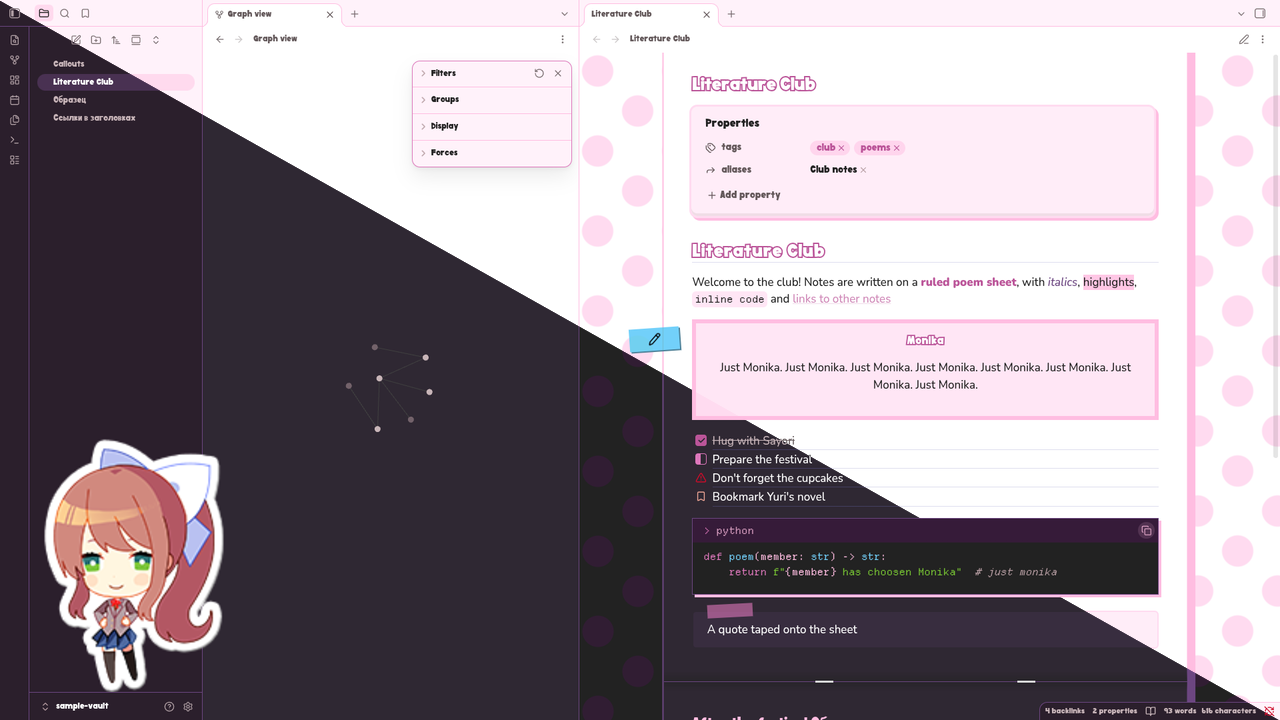
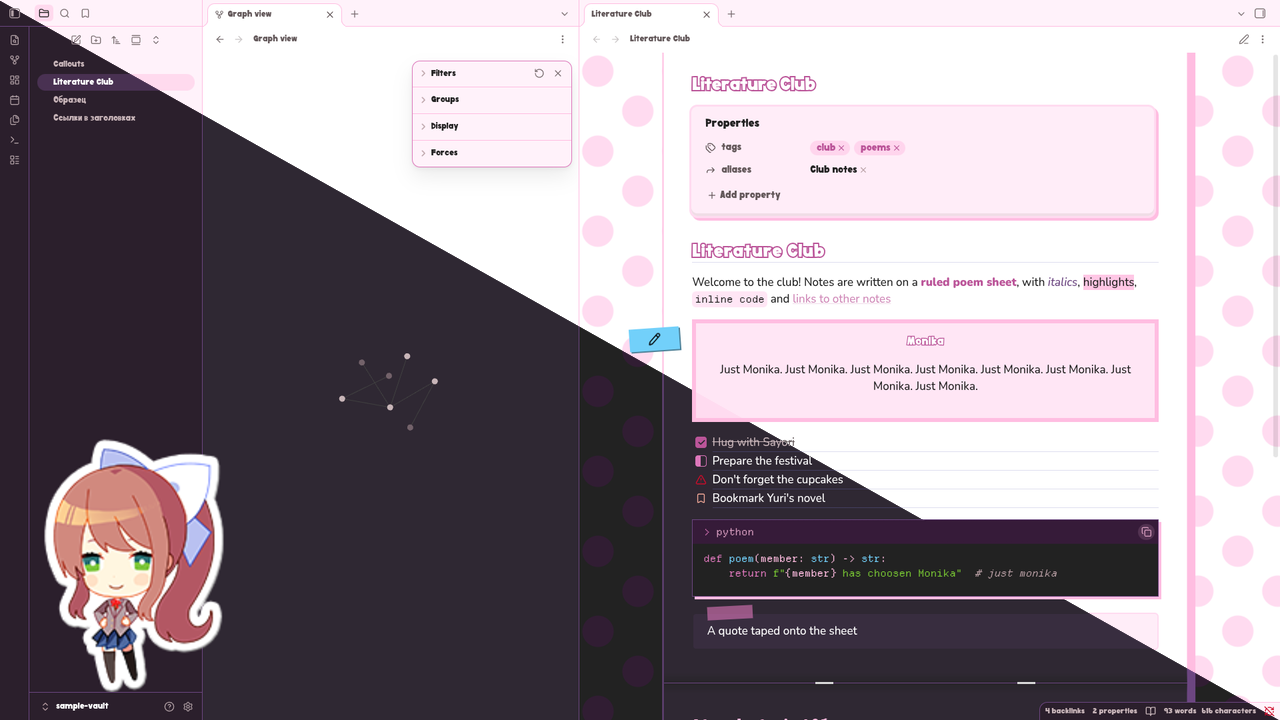
Show a nested callout, and retake the shots with the new titles
The sample vault's callouts note nests one callout in the first, so the
callout columns and the dark phone shot show a nested sticker on the
margin. Every shot with a callout title is taken again with its thinner
outline, and the cover is composed again.

Assisted-by: Claude Code:claude-opus-5-5 (mostly)

Changed region(s): [[0.5312, 0.5806, 0.9062, 0.8861], [0.5625, 0.4583, 0.875, 0.55], [0.875, 0.7028, 0.9062, 0.7333]]

diff --git a/docs/sample-vault/Callouts.md b/docs/sample-vault/Callouts.md
@@ -1,5 +1,7 @@
 > [!note] Monika
 > Just Monika. A callout is the game's pop-up, and its kind is the sticker beside it
+> > [!bug] Just Monika.
+> > OK
 
 > [!experiment] Rutherford and Marsden, 1908–1911: gold foil hardly deflects alpha particles [[Literature Club|but a few fly back]] [08:37](https://ddlc.moe)
 > A radioactive source sits in a lead box
